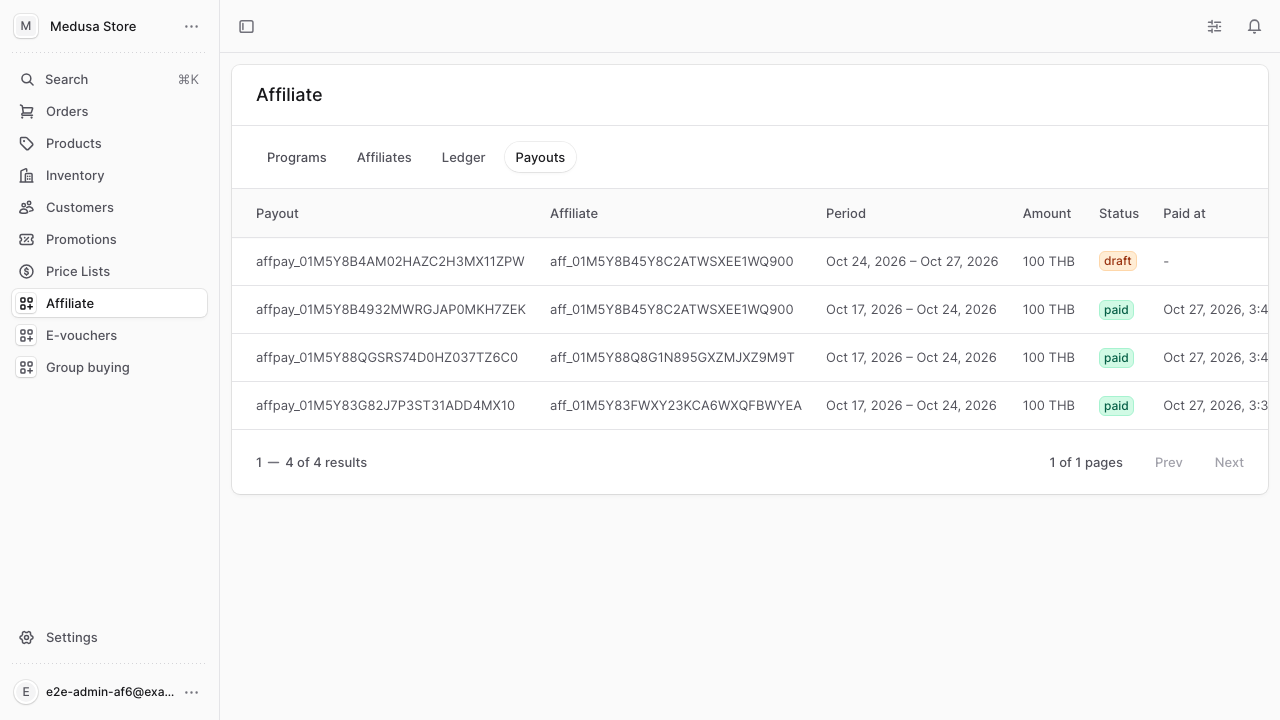
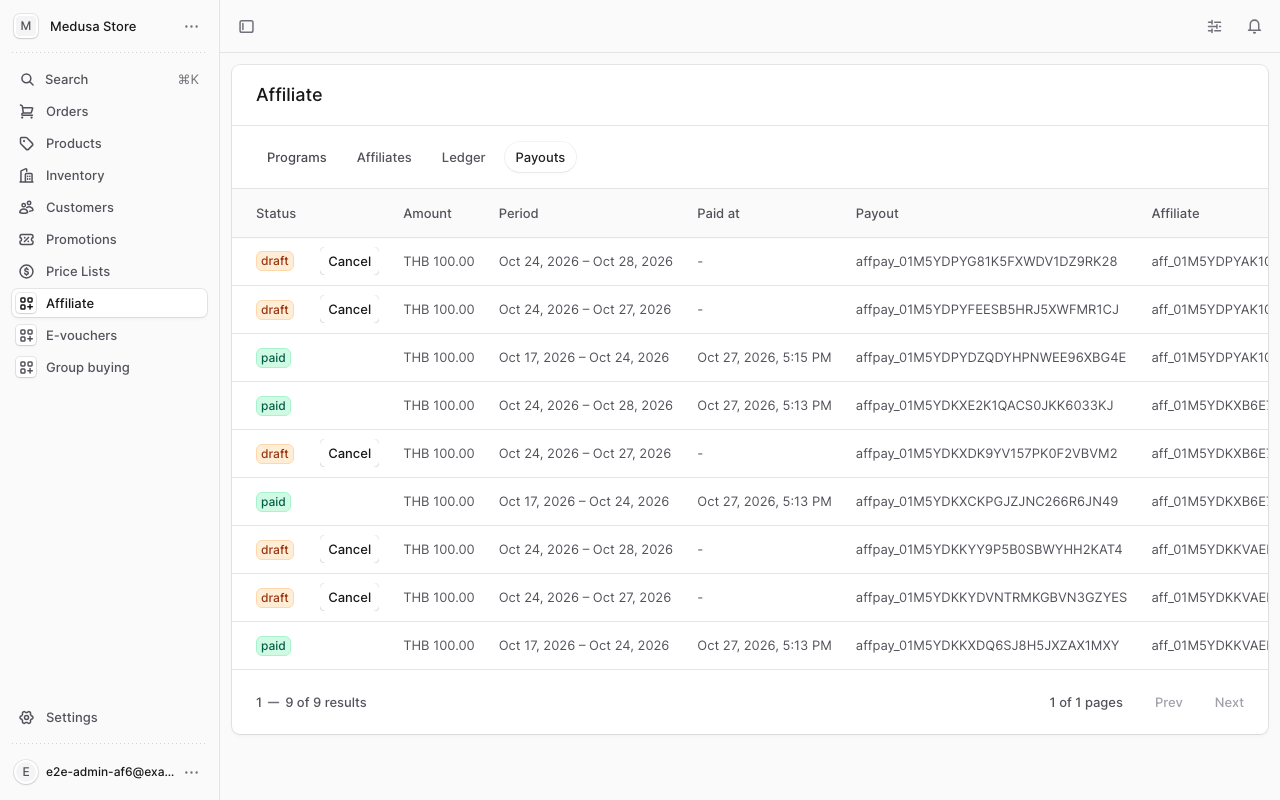
fix(affiliate): ปุ่มยกเลิก payout อยู่ในจอที่ 1280px และ refetch เมื่อยกเลิกไม่สำเร็จ (AF-6)
- ย้ายคอลัมน์สถานะ/ปุ่มไปซ้ายสุด ปุ่มอยู่ใน viewport 1280x800 โดยไม่ต้องเลื่อนตาราง (AC-26 รอบ 10)
- ยกเลิกไม่สำเร็จ → toast error และ invalidate รายการ payout ให้แสดงสถานะจริง
- กันกดซ้ำด้วย useRef แทน singleFlight; จำนวนเงินใช้ Intl.NumberFormat และเวลาแสดงเป็น Asia/Bangkok

diff --git a/apps/storefront/e2e/affiliate-admin-payouts.spec.ts b/apps/storefront/e2e/affiliate-admin-payouts.spec.ts
@@ -9,9 +9,11 @@ import { Headers, adminHeaders } from "./support/medusa"
 
 // AF-6 (spec 05 AC-26): แท็บ Payouts ของหน้า Affiliate ใน admin — เฉพาะแถว `draft` มีปุ่ม `affiliate-payout-cancel`
 // ยืนยันด้วย usePrompt, dblclick → DELETE 1 ครั้งและแถวหายโดยไม่ reload; ยกเลิกกล่องยืนยัน → ไม่มี request
+// รอบ 10 (qa #138): ที่ 1280×800 ปุ่มอยู่ในจอโดยไม่ต้องเลื่อนตาราง; ยกเลิกไม่สำเร็จ → toast error + refetch รายการ
 // admin UI เป็นภาษาอังกฤษ (CLAUDE.md) — หา element ด้วย data-testid
 test.use({
   ...ADMIN_UI_OPTIONS,
+  viewport: { width: 1280, height: 800 },
   evidenceTarget: { feature: "affiliate", taskId: "AF-6" },
 })
 
@@ -83,11 +85,18 @@ test("AC-26: เฉพาะ payout draft มีปุ่มยกเลิก, 
   await insertApprovedEntry(ann.id, program.id, new Date(Date.now() - DAY))
   const { payout: draft } = await post(request, admin, "/admin/affiliate/payouts", period(3, 0))
   expect(draft.status).toBe("draft")
+  // draft ที่จะถูก mark paid ระหว่างที่หน้าเปิดอยู่ (ข้อมูลในตารางเก่า) → ยกเลิกไม่สำเร็จ
+  await insertApprovedEntry(ann.id, program.id, new Date(Date.now() - DAY / 2))
+  const { payout: stale } = await post(request, admin, "/admin/affiliate/payouts", period(3, -1))
+  expect(stale.status).toBe("draft")
 
   const cancelPath = `/admin/affiliate/payouts/${draft.id}`
   const deletes: string[] = []
+  const requests: string[] = []
   page.on("request", (req) => {
-    if (req.method() === "DELETE" && new URL(req.url()).pathname === cancelPath) deletes.push(req.url())
+    const path = new URL(req.url()).pathname
+    if (path.startsWith("/admin/affiliate/payouts")) requests.push(`${req.method()} ${path}`)
+    if (req.method() === "DELETE" && path === cancelPath) deletes.push(req.url())
   })
   const row = (id: string) => page.getByRole("row").filter({ hasText: id })
 
@@ -99,15 +108,41 @@ test("AC-26: เฉพาะ payout draft มีปุ่มยกเลิก, 
     await expect(row(paid.id)).toBeVisible()
     await expect(row(draft.id).getByTestId("affiliate-payout-cancel")).toHaveCount(1)
     await expect(row(paid.id).getByTestId("affiliate-payout-cancel")).toHaveCount(0)
+    // ปุ่มอยู่ใน viewport 1280×800 โดยไม่ต้องเลื่อนตารางแนวนอน
+    for (const id of [draft.id, stale.id]) {
+      const box = await row(id).getByTestId("affiliate-payout-cancel").boundingBox()
+      expect(box, `ปุ่มยกเลิกของ ${id}`).not.toBeNull()
+      expect(box!.x).toBeGreaterThanOrEqual(0)
+      expect(box!.x + box!.width).toBeLessThanOrEqual(1280)
+      expect(box!.y + box!.height).toBeLessThanOrEqual(800)
+    }
     await evidence("01-payouts-tab")
   })
+
+  await step(
+    "ยกเลิก payout ที่ถูก mark paid ไปแล้ว → toast error, refetch รายการ และแถวไม่มีปุ่มอีก",
+    async () => {
+      await post(request, admin, `/admin/affiliate/payouts/${stale.id}/mark-paid`, {})
+      await row(stale.id).getByTestId("affiliate-payout-cancel").click()
+      await page.getByRole("alertdialog").getByRole("button", { name: "Cancel payout" }).click()
+      await expect(page.getByText("Only draft payouts can be cancelled")).toBeVisible()
+      await expect(row(stale.id).getByTestId("affiliate-payout-cancel")).toHaveCount(0)
+      await expect(row(stale.id)).toContainText("paid")
+      const failed = requests.indexOf(`DELETE /admin/affiliate/payouts/${stale.id}`)
+      expect(failed, "มี DELETE ที่ล้ม").toBeGreaterThanOrEqual(0)
+      expect(requests.slice(failed + 1), "refetch รายการหลังยกเลิกไม่สำเร็จ").toContain(
+        "GET /admin/affiliate/payouts",
+      )
+      await evidence("02-cancel-failed")
+    },
+  )
 
   await step("กดยกเลิกแล้วปิดกล่องยืนยัน → ไม่มี request และแถวยังอยู่", async () => {
     await row(draft.id).getByTestId("affiliate-payout-cancel").click()
     const dialog = page.getByRole("alertdialog")
     await expect(dialog).toBeVisible()
     await page.waitForTimeout(300) // ให้ animation ของกล่องยืนยันจบก่อนถ่าย evidence
-    await evidence("02-confirm-prompt")
+    await evidence("03-confirm-prompt")
     await dialog.getByRole("button", { name: "Keep payout" }).click()
     await expect(dialog).toBeHidden()
     await page.waitForTimeout(500)
@@ -124,7 +159,7 @@ test("AC-26: เฉพาะ payout draft มีปุ่มยกเลิก, 
     await expect(row(paid.id)).toBeVisible()
     expect(deletes).toHaveLength(1)
     expect(await page.evaluate(() => (window as unknown as { __af6?: boolean }).__af6)).toBe(true)
-    await evidence("03-draft-cancelled")
+    await evidence("04-draft-cancelled")
     const res = await request.get(`${BACKEND_URL}${cancelPath}`, {
       headers: admin,
     })

diff --git a/apps/backend/src/admin/components/affiliate/payouts-table.tsx b/apps/backend/src/admin/components/affiliate/payouts-table.tsx
@@ -1,8 +1,9 @@
 import { Badge, Button, createDataTableColumnHelper, toast, usePrompt } from "@medusajs/ui"
 import { useMutation, useQueryClient } from "@tanstack/react-query"
-import { useMemo } from "react"
-import { affiliateKeys, cancelPayout, formatDate, Payout } from "../../lib/affiliate"
-import { canCancelPayout, singleFlight } from "../../lib/affiliate-payout"
+import { useMemo, useRef } from "react"
+import { affiliateKeys, cancelPayout, Payout } from "../../lib/affiliate"
+import { formatAmount, formatDate } from "../../lib/affiliate-format"
+import { canCancelPayout } from "../../lib/affiliate-payout"
 import { AffiliateListTable } from "./list-table"
 
 const columnHelper = createDataTableColumnHelper<Payout>()
@@ -11,50 +12,47 @@ const columnHelper = createDataTableColumnHelper<Payout>()
 export const PayoutsTable = () => {
   const prompt = usePrompt()
   const queryClient = useQueryClient()
+  // กล่องยืนยันเปิดอยู่หรือ request ยังไม่จบ → คลิกซ้ำ (dblclick) ถูกเพิกเฉย (ค่าคงอยู่ข้าม render)
+  const inFlight = useRef(false)
+
+  const refetchPayouts = () => queryClient.invalidateQueries({ queryKey: affiliateKeys.list("payouts") })
 
   const cancel = useMutation({
     mutationFn: cancelPayout,
     onSuccess: () => {
       toast.success("Payout cancelled")
-      return queryClient.invalidateQueries({
-        queryKey: affiliateKeys.list("payouts"),
-      })
+      return refetchPayouts()
     },
-    onError: (e: Error) => toast.error(e.message),
+    // รอบ 10: ยกเลิกไม่สำเร็จ (เช่น ถูก mark paid ไปแล้ว) → โหลดรายการใหม่ให้ตารางแสดงสถานะจริง
+    onError: (e: Error) => {
+      toast.error(e.message)
+      return refetchPayouts()
+    },
   })
 
-  // กล่องยืนยันเปิดอยู่หรือ request ยังไม่จบ → คลิกซ้ำ (dblclick) ถูกเพิกเฉย
-  const confirmCancel = useMemo(
-    () =>
-      singleFlight(async (id: string) => {
-        const ok = await prompt({
-          title: "Cancel this draft payout?",
-          description: "The payout is removed and its entries can be picked up by the next payout.",
-          confirmText: "Cancel payout",
-          cancelText: "Keep payout",
-        })
-        if (ok) {
-          await cancel.mutateAsync(id).catch(() => undefined)
-        }
-      }),
-    [prompt, cancel.mutateAsync],
-  )
+  const confirmCancel = async (id: string) => {
+    if (inFlight.current) {
+      return
+    }
+    inFlight.current = true
+    try {
+      const ok = await prompt({
+        title: "Cancel this draft payout?",
+        description: "The payout is removed and its entries can be picked up by the next payout.",
+        confirmText: "Cancel payout",
+        cancelText: "Keep payout",
+      })
+      if (ok) {
+        await cancel.mutateAsync(id).catch(() => undefined)
+      }
+    } finally {
+      inFlight.current = false
+    }
+  }
 
+  // คอลัมน์สถานะ (sticky) และปุ่มอยู่ซ้ายสุด เพื่อให้ปุ่มอยู่ในจอที่ 1280px โดยไม่ต้องเลื่อนตาราง (รอบ 10)
   const columns = useMemo(
     () => [
-      columnHelper.accessor("id", { header: "Payout" }),
-      columnHelper.accessor("affiliate_id", { header: "Affiliate" }),
-      columnHelper.accessor(
-        (row) => `${formatDate(row.period_from, false)} – ${formatDate(row.period_to, false)}`,
-        {
-          id: "period",
-          header: "Period",
-        },
-      ),
-      columnHelper.accessor((row) => `${row.amount} ${row.currency.toUpperCase()}`, {
-        id: "amount",
-        header: "Amount",
-      }),
       columnHelper.accessor("status", {
         header: "Status",
         cell: ({ getValue }) => (
@@ -62,10 +60,6 @@ export const PayoutsTable = () => {
             {getValue()}
           </Badge>
         ),
-      }),
-      columnHelper.accessor("paid_at", {
-        header: "Paid at",
-        cell: ({ getValue }) => formatDate(getValue()),
       }),
       columnHelper.display({
         id: "actions",
@@ -82,8 +76,20 @@ export const PayoutsTable = () => {
             </Button>
           ) : null,
       }),
+      columnHelper.accessor((row) => formatAmount(row.amount, row.currency), {
+        id: "amount",
+        header: "Amount",
+      }),
+      columnHelper.accessor(
+        (row) => `${formatDate(row.period_from, false)} – ${formatDate(row.period_to, false)}`,
+        { id: "period", header: "Period" },
+      ),
+      columnHelper.accessor("paid_at", { header: "Paid at", cell: ({ getValue }) => formatDate(getValue()) }),
+      columnHelper.accessor("id", { header: "Payout" }),
+      columnHelper.accessor("affiliate_id", { header: "Affiliate" }),
     ],
-    [cancel.isPending, confirmCancel],
+    // confirmCancel ใช้แค่ ref, prompt และ mutateAsync ที่ stable — สร้างคอลัมน์ใหม่เมื่อ isPending เปลี่ยน
+    [cancel.isPending],
   )
 
   return <AffiliateListTable resource="payouts" columns={columns} empty="No payouts yet" />

diff --git a/apps/backend/src/admin/lib/__tests__/affiliate-payout.unit.spec.ts b/apps/backend/src/admin/lib/__tests__/affiliate-payout.unit.spec.ts
@@ -1,36 +1,9 @@
-import { canCancelPayout, singleFlight } from "../affiliate-payout"
+import { canCancelPayout } from "../affiliate-payout"
 
-// AF-6 (spec 05 AC-26): ปุ่มยกเลิกเฉพาะ payout `draft` และกันกดซ้ำ (dblclick → request เดียว)
+// AF-6 (spec 05 AC-26): ปุ่มยกเลิกเฉพาะ payout `draft`
 describe("canCancelPayout", () => {
   it("is true only for draft payouts", () => {
     expect(canCancelPayout({ status: "draft" })).toBe(true)
     expect(canCancelPayout({ status: "paid" })).toBe(false)
-  })
-})
-
-describe("singleFlight", () => {
-  it("ignores calls while the previous call is still running", async () => {
-    let release!: () => void
-    const fn = jest.fn((_id: string) => new Promise<void>((resolve) => (release = resolve)))
-    const run = singleFlight(fn)
-
-    const first = run("a")
-    void run("b")
-    expect(fn).toHaveBeenCalledTimes(1)
-    expect(fn).toHaveBeenCalledWith("a")
-
-    release()
-    await first
-    void run("c")
-    expect(fn).toHaveBeenCalledTimes(2)
-  })
-
-  it("allows another call after the previous one rejects", async () => {
-    const fn = jest.fn(async () => undefined).mockRejectedValueOnce(new Error("boom")).mockResolvedValue(undefined)
-    const run = singleFlight(fn)
-
-    await expect(run()).rejects.toThrow("boom")
-    await run()
-    expect(fn).toHaveBeenCalledTimes(2)
   })
 })

diff --git a/apps/backend/src/admin/routes/affiliate/page.tsx b/apps/backend/src/admin/routes/affiliate/page.tsx
@@ -2,7 +2,8 @@ import { defineRouteConfig } from "@medusajs/admin-sdk"
 import { Badge, Container, createDataTableColumnHelper, Heading, Tabs } from "@medusajs/ui"
 import { AffiliateListTable } from "../../components/affiliate/list-table"
 import { PayoutsTable } from "../../components/affiliate/payouts-table"
-import { Affiliate, CommissionEntry, formatDate, Program } from "../../lib/affiliate"
+import { Affiliate, CommissionEntry, Program } from "../../lib/affiliate"
+import { formatAmount, formatDate } from "../../lib/affiliate-format"
 
 // AF-6 (spec 05 "Admin UI"): หน้า Affiliate → Programs, Affiliates, Ledger, Payouts (อ่านจาก admin API ของ AF-5)
 const program = createDataTableColumnHelper<Program>()
@@ -50,7 +51,7 @@ const entryColumns = [
   }),
   entry.accessor("affiliate_id", { header: "Affiliate" }),
   entry.accessor("order_id", { header: "Order" }),
-  entry.accessor((row) => `${row.amount} ${row.currency.toUpperCase()}`, {
+  entry.accessor((row) => formatAmount(row.amount, row.currency), {
     id: "amount",
     header: "Amount",
   }),

diff --git a/apps/backend/src/admin/lib/__tests__/affiliate-format.unit.spec.ts b/apps/backend/src/admin/lib/__tests__/affiliate-format.unit.spec.ts
@@ -1,0 +1,21 @@
+import { formatAmount, formatDate } from "../affiliate-format"
+
+// AF-6 (review #138): เวลาใน admin แสดงตามเวลาไทย (Asia/Bangkok) ไม่ขึ้นกับ timezone ของเครื่อง
+describe("formatDate", () => {
+  it("formats in Asia/Bangkok with or without time", () => {
+    expect(formatDate("2026-10-27T17:30:00.000Z")).toBe("Oct 28, 2026, 12:30 AM")
+    expect(formatDate("2026-10-27T17:30:00.000Z", false)).toBe("Oct 28, 2026")
+  })
+
+  it("returns a dash for empty values", () => {
+    expect(formatDate(null)).toBe("-")
+  })
+})
+
+// จำนวนเงินเป็นหน่วยหลัก (major units) ตามที่ API ส่งมา — ไม่หาร 100
+describe("formatAmount", () => {
+  it("formats with Intl currency style", () => {
+    expect(formatAmount(1234.5, "thb")).toMatch(/^THB\s1,234\.50$/)
+    expect(formatAmount("-20", "thb")).toMatch(/^-THB\s20\.00$/)
+  })
+})

diff --git a/apps/backend/src/admin/lib/affiliate-format.ts b/apps/backend/src/admin/lib/affiliate-format.ts
@@ -1,0 +1,17 @@
+// AF-6 (review #138): admin แสดงเวลาตามเวลาไทยเสมอ (ไม่ขึ้นกับ timezone ของ browser) และเงินด้วย Intl
+const TIME_ZONE = "Asia/Bangkok"
+
+export const formatDate = (value: string | null, withTime = true) =>
+  value
+    ? new Date(value).toLocaleString("en-US", {
+        timeZone: TIME_ZONE,
+        dateStyle: "medium",
+        timeStyle: withTime ? "short" : undefined,
+      })
+    : "-"
+
+// API ส่งหน่วยหลัก (major units) — แสดงตามนั้น ไม่หาร 100 และไม่ใช้คำนวณ
+export const formatAmount = (amount: number | string, currency: string) =>
+  new Intl.NumberFormat("en-US", { style: "currency", currency: currency.toUpperCase() }).format(
+    Number(amount),
+  )

diff --git a/apps/backend/src/admin/lib/affiliate-payout.ts b/apps/backend/src/admin/lib/affiliate-payout.ts
@@ -2,19 +2,3 @@ import type { Payout } from "./affiliate"
 
 // AF-6 (AC-26): payout `paid` ยกเลิกไม่ได้ (backend ตอบ 400) จึงไม่แสดงปุ่ม
 export const canCancelPayout = (payout: Pick<Payout, "status">) => payout.status === "draft"
-
-/** กันกดซ้ำ: ระหว่างที่ fn ยังไม่จบ (รวมช่วงกล่องยืนยันเปิดอยู่) การเรียกซ้ำถูกเพิกเฉย */
-export const singleFlight = <A extends unknown[]>(fn: (...args: A) => Promise<unknown>) => {
-  let running = false
-  return async (...args: A) => {
-    if (running) {
-      return
-    }
-    running = true
-    try {
-      await fn(...args)
-    } finally {
-      running = false
-    }
-  }
-}

diff --git a/apps/backend/src/admin/lib/affiliate.ts b/apps/backend/src/admin/lib/affiliate.ts
@@ -60,11 +60,3 @@ export const listAffiliateResource = <K extends string, T>(
 // AF-9: route ยกเลิก payout draft (soft-delete, Q9)
 export const cancelPayout = (id: string) =>
   sdk.client.fetch(`/admin/affiliate/payouts/${id}`, { method: "DELETE" })
-
-export const formatDate = (value: string | null, withTime = true) =>
-  value
-    ? new Date(value).toLocaleString(undefined, {
-        dateStyle: "medium",
-        timeStyle: withTime ? "short" : undefined,
-      })
-    : "-"
